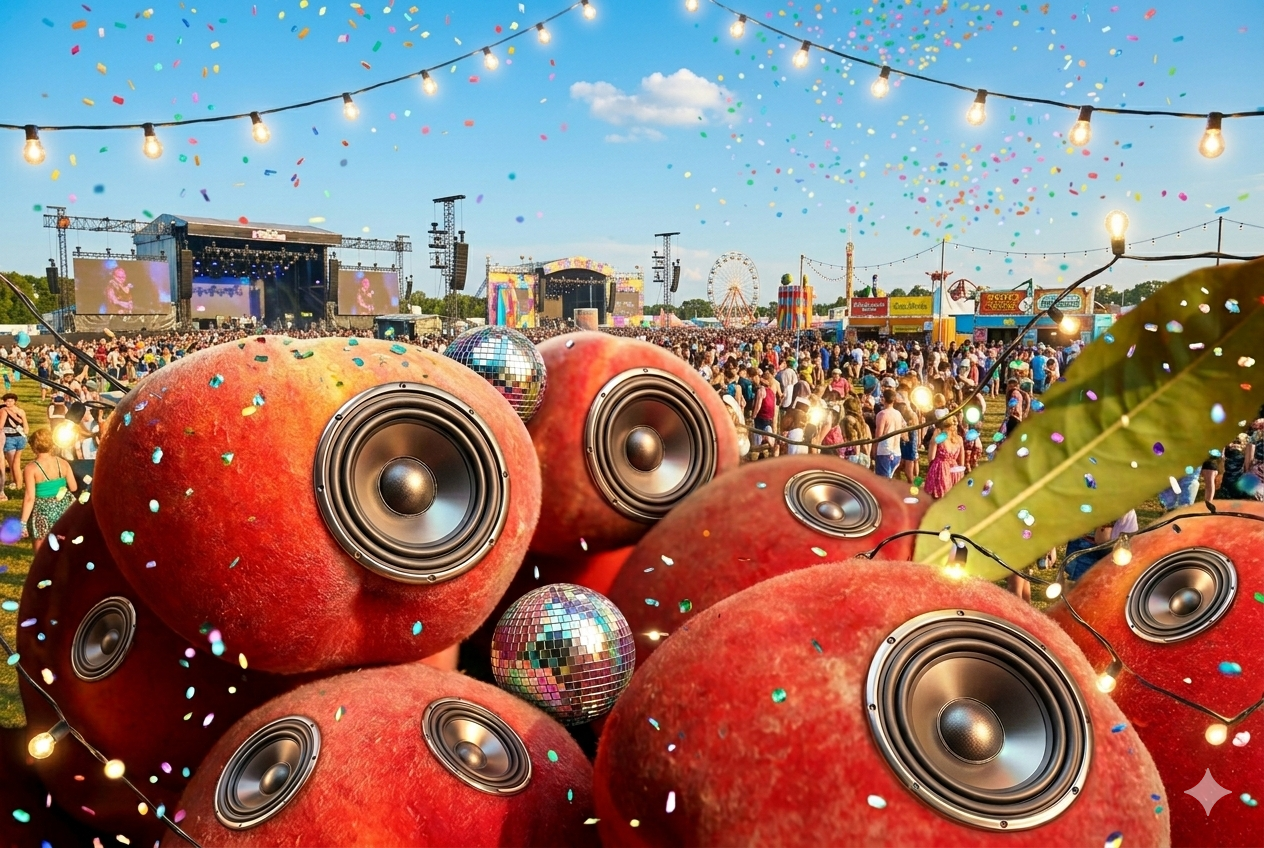
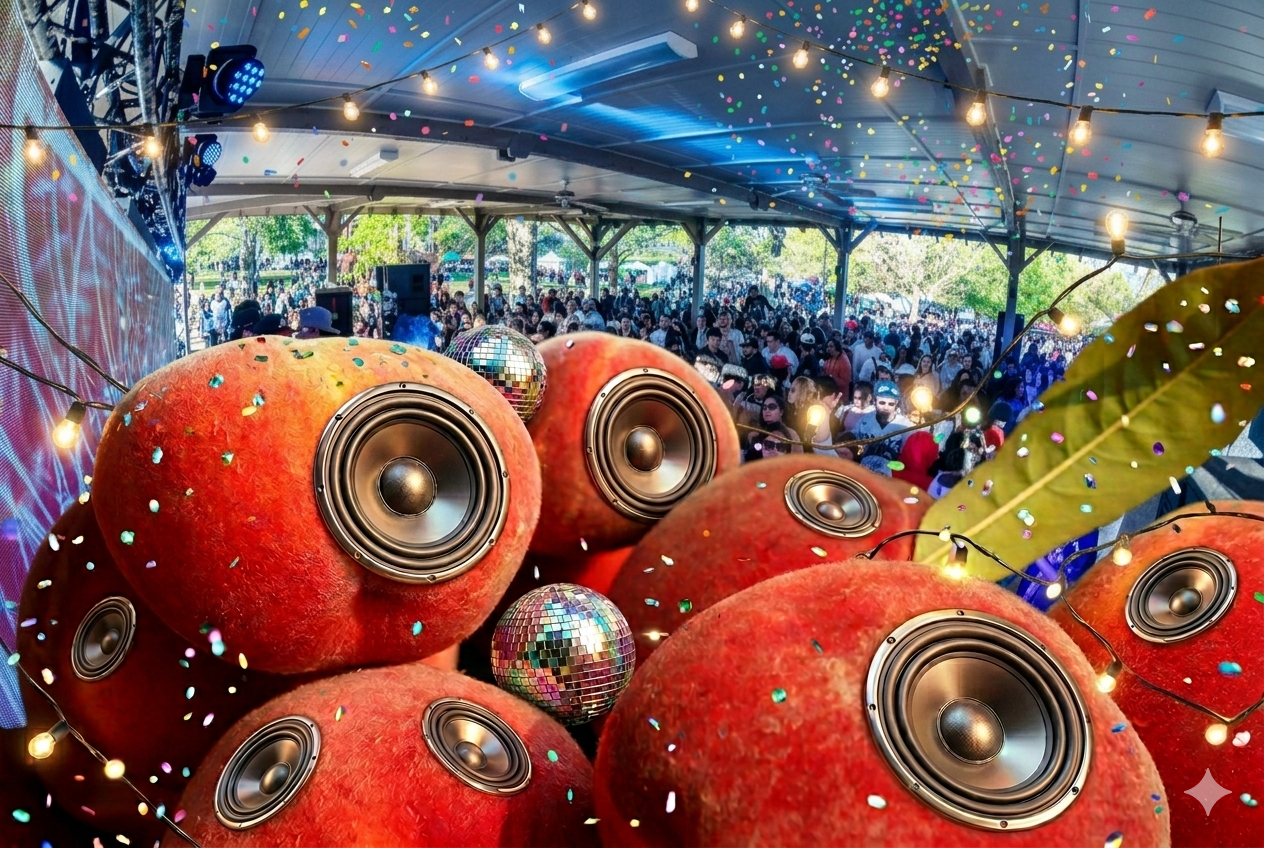
update hero image

diff --git a/app/globals.css b/app/globals.css
@@ -134,10 +134,10 @@ body {
   background-position: center;
 }
 html[data-base-path=""] .hero-peaches {
-  background-image: url("/404day-fest-peaches-hero.png");
+  background-image: url("/404day-fest-peaches-hero.png?v=3");
 }
 html[data-base-path="/404day"] .hero-peaches {
-  background-image: url("/404day/404day-fest-peaches-hero.png");
+  background-image: url("/404day/404day-fest-peaches-hero.png?v=3");
 }
 
 /* Dark overlay so white logo + text read clearly */

diff --git a/app/tickets/page.tsx b/app/tickets/page.tsx
@@ -28,7 +28,7 @@ export default function TicketsPage() {
             {/* Event header with image */}
             <div className="relative h-48 bg-gradient-to-br from-[#e87851] to-[#fac355]">
               <Image
-                src={`${basePath}/404day-fest-peaches-hero.png?v=2`}
+                src={`${basePath}/404day-fest-peaches-hero.png?v=3`}
                 alt="404 Day 2026"
                 fill
                 className="object-cover opacity-80"
